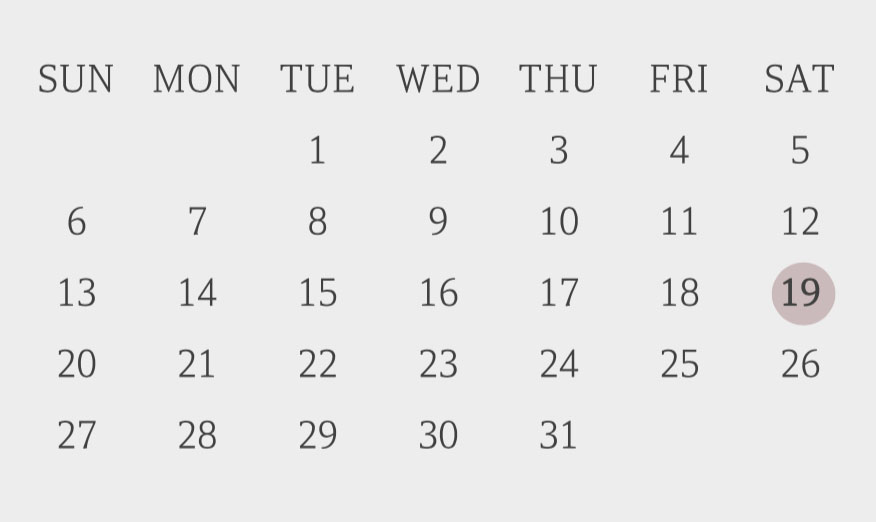
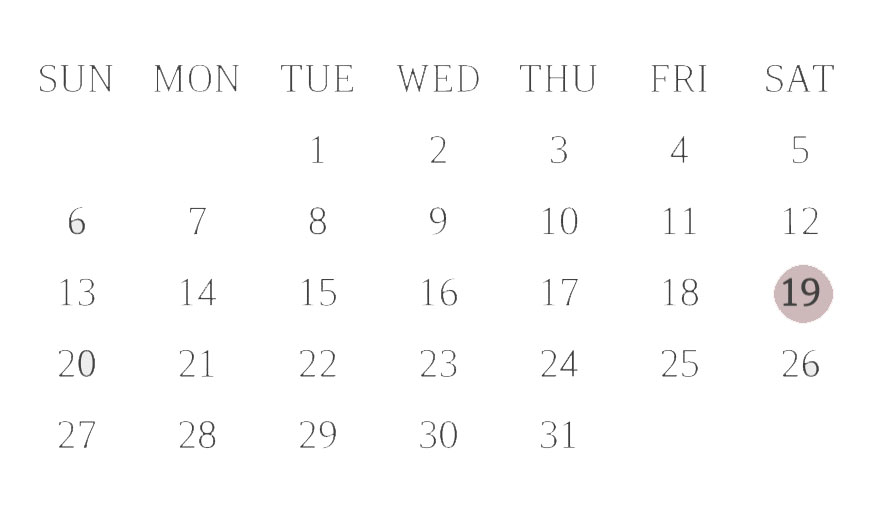
좀 더 연하게%

diff --git a/public/js/inviteRay.js b/public/js/inviteRay.js
@@ -221,7 +221,7 @@ class InviteRay extends React.Component {
 								</p>
 							</div>
 						</div>
-			            <div id="when" className="container" style={{ paddingTop: 80, paddingBottom: 80, backgroundColor: 'rgb(237, 237, 237)' }}>
+			            <div id="when" className="container" style={{ paddingTop: 80, paddingBottom: 80, backgroundColor: 'rgb(250, 250, 250)' }}>
 							{/*<h3><span>이 날</span>이에요.</h3>*/}
 							<div className="text-center">
 								<div
@@ -244,7 +244,7 @@ class InviteRay extends React.Component {
 							</div>
 							<div>
 								<img
-									src="./public/img/calendar.jpg"
+									src="./public/img/calendar2.jpg"
 									className="trigger img-responsive"
 									alt="Img"
 									style={{
